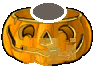
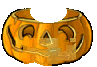
fix(shield): dig top oval hole fully transparent so the dark gray oval blob is gone (v3.3.8 -> v3.3.9-shield-tophole)

Changed region(s): [[0.2165, 0.0299, 0.6804, 0.2985], [0.7113, 0.1194, 0.8041, 0.1493], [0.6804, 0.0896, 0.7113, 0.1194]]

diff --git a/pvz-web/js/GameLoop.js b/pvz-web/js/GameLoop.js
@@ -227,32 +227,32 @@ class Game {
     initUI() {
         // Just define the seeds, don't populate the top bar yet
         this.seeds = [
-            { type: 'sunflower', cost: 50, cooldown: 7.5, img: 'assets/images/Card/Plants/SunFlower.png?v=1788688039' },
-            { type: 'twinsunflower', cost: 150, cooldown: 50, img: 'assets/images/Card/Plants/TwinSunflower.png?v=1788688039' },
-            { type: 'sunshroom', cost: 25, cooldown: 7.5, img: 'assets/images/Card/Plants/SunShroom.png?v=1788688039' },
-            { type: 'peashooter', cost: 100, cooldown: 7.5, img: 'assets/images/Card/Plants/Peashooter.png?v=1788688039' },
-            { type: 'repeater', cost: 200, cooldown: 7.5, img: 'assets/images/Card/Plants/Repeater.png?v=1788688039' },
-            { type: 'threepeater', cost: 300, cooldown: 7.5, img: 'assets/images/Card/Plants/Threepeater.png?v=1788688039' },
-            { type: 'gatlingpea', cost: 250, cooldown: 50, img: 'assets/images/Card/Plants/GatlingPea.png?v=1788688039' },
-            { type: 'snowpea', cost: 175, cooldown: 7.5, img: 'assets/images/Card/Plants/SnowPea.png?v=1788688039' },
-            { type: 'splitpea', cost: 125, cooldown: 7.5, img: 'assets/images/Card/Plants/SplitPea.png?v=1788688039' },
-            { type: 'torchwood', cost: 175, cooldown: 7.5, img: 'assets/images/Card/Plants/Torchwood.png?v=1788688039' },
-            { type: 'wallnut', cost: 50, cooldown: 30, img: 'assets/images/Card/Plants/WallNut.png?v=1788688039' },
-            { type: 'cherrybomb', cost: 150, cooldown: 50, img: 'assets/images/Card/Plants/CherryBomb.png?v=1788688039' },            { type: 'squash', cost: 50, cooldown: 30, img: 'assets/images/Card/Plants/Squash.png?v=1788688039' },
-            { type: 'jalapeno', cost: 125, cooldown: 50, img: 'assets/images/Card/Plants/Jalapeno.png?v=1788688039' },
-            { type: 'potatomine', cost: 25, cooldown: 30, img: 'assets/images/Card/Plants/PotatoMine.png?v=1788688039' },
-            { type: 'chomper', cost: 150, cooldown: 7.5, img: 'assets/images/Card/Plants/Chomper.png?v=1788688039' },
-            { type: 'tallnut', cost: 125, cooldown: 30, img: 'assets/images/Card/Plants/TallNut.png?v=1788688039' },
-            { type: 'puffshroom', cost: 0, cooldown: 7.5, img: 'assets/images/Card/Plants/PuffShroom.png?v=1788688039' },
-            { type: 'fumeshroom', cost: 75, cooldown: 7.5, img: 'assets/images/Card/Plants/FumeShroom.png?v=1788688039' },
-            { type: 'scaredyshroom', cost: 25, cooldown: 7.5, img: 'assets/images/Card/Plants/ScaredyShroom.png?v=1788688039' },
-            { type: 'gloomshroom', cost: 150, cooldown: 7.5, img: 'assets/images/Card/Plants/GloomShroom.png?v=1788688039' },
-            { type: 'spikerock', cost: 125, cooldown: 7.5, img: 'assets/images/Card/Plants/Spikerock.png?v=1788688039' },
-            { type: 'cattail', cost: 225, cooldown: 7.5, img: 'assets/images/Card/Plants/Cattail.png?v=1788688039' },
-            { type: 'melonpult', cost: 300, cooldown: 7.5, img: 'assets/images/Card/Plants/MelonPult.png?v=1788688039' },{ type: 'iceshroom', cost: 75, cooldown: 50, img: 'assets/images/Card/Plants/IceShroom.png?v=1788688039' },
-            { type: 'doomshroom', cost: 125, cooldown: 50, img: 'assets/images/Card/Plants/DoomShroom.png?v=1788688039' },
-            { type: 'spikeweed', cost: 100, cooldown: 7.5, img: 'assets/images/Card/Plants/Spikeweed.png?v=1788688039' },
-            { type: 'garlic', cost: 50, cooldown: 7.5, img: 'assets/images/Card/Plants/Garlic.png?v=1788688039' }
+            { type: 'sunflower', cost: 50, cooldown: 7.5, img: 'assets/images/Card/Plants/SunFlower.png?v=1788689333' },
+            { type: 'twinsunflower', cost: 150, cooldown: 50, img: 'assets/images/Card/Plants/TwinSunflower.png?v=1788689333' },
+            { type: 'sunshroom', cost: 25, cooldown: 7.5, img: 'assets/images/Card/Plants/SunShroom.png?v=1788689333' },
+            { type: 'peashooter', cost: 100, cooldown: 7.5, img: 'assets/images/Card/Plants/Peashooter.png?v=1788689333' },
+            { type: 'repeater', cost: 200, cooldown: 7.5, img: 'assets/images/Card/Plants/Repeater.png?v=1788689333' },
+            { type: 'threepeater', cost: 300, cooldown: 7.5, img: 'assets/images/Card/Plants/Threepeater.png?v=1788689333' },
+            { type: 'gatlingpea', cost: 250, cooldown: 50, img: 'assets/images/Card/Plants/GatlingPea.png?v=1788689333' },
+            { type: 'snowpea', cost: 175, cooldown: 7.5, img: 'assets/images/Card/Plants/SnowPea.png?v=1788689333' },
+            { type: 'splitpea', cost: 125, cooldown: 7.5, img: 'assets/images/Card/Plants/SplitPea.png?v=1788689333' },
+            { type: 'torchwood', cost: 175, cooldown: 7.5, img: 'assets/images/Card/Plants/Torchwood.png?v=1788689333' },
+            { type: 'wallnut', cost: 50, cooldown: 30, img: 'assets/images/Card/Plants/WallNut.png?v=1788689333' },
+            { type: 'cherrybomb', cost: 150, cooldown: 50, img: 'assets/images/Card/Plants/CherryBomb.png?v=1788689333' },            { type: 'squash', cost: 50, cooldown: 30, img: 'assets/images/Card/Plants/Squash.png?v=1788689333' },
+            { type: 'jalapeno', cost: 125, cooldown: 50, img: 'assets/images/Card/Plants/Jalapeno.png?v=1788689333' },
+            { type: 'potatomine', cost: 25, cooldown: 30, img: 'assets/images/Card/Plants/PotatoMine.png?v=1788689333' },
+            { type: 'chomper', cost: 150, cooldown: 7.5, img: 'assets/images/Card/Plants/Chomper.png?v=1788689333' },
+            { type: 'tallnut', cost: 125, cooldown: 30, img: 'assets/images/Card/Plants/TallNut.png?v=1788689333' },
+            { type: 'puffshroom', cost: 0, cooldown: 7.5, img: 'assets/images/Card/Plants/PuffShroom.png?v=1788689333' },
+            { type: 'fumeshroom', cost: 75, cooldown: 7.5, img: 'assets/images/Card/Plants/FumeShroom.png?v=1788689333' },
+            { type: 'scaredyshroom', cost: 25, cooldown: 7.5, img: 'assets/images/Card/Plants/ScaredyShroom.png?v=1788689333' },
+            { type: 'gloomshroom', cost: 150, cooldown: 7.5, img: 'assets/images/Card/Plants/GloomShroom.png?v=1788689333' },
+            { type: 'spikerock', cost: 125, cooldown: 7.5, img: 'assets/images/Card/Plants/Spikerock.png?v=1788689333' },
+            { type: 'cattail', cost: 225, cooldown: 7.5, img: 'assets/images/Card/Plants/Cattail.png?v=1788689333' },
+            { type: 'melonpult', cost: 300, cooldown: 7.5, img: 'assets/images/Card/Plants/MelonPult.png?v=1788689333' },{ type: 'iceshroom', cost: 75, cooldown: 50, img: 'assets/images/Card/Plants/IceShroom.png?v=1788689333' },
+            { type: 'doomshroom', cost: 125, cooldown: 50, img: 'assets/images/Card/Plants/DoomShroom.png?v=1788689333' },
+            { type: 'spikeweed', cost: 100, cooldown: 7.5, img: 'assets/images/Card/Plants/Spikeweed.png?v=1788689333' },
+            { type: 'garlic', cost: 50, cooldown: 7.5, img: 'assets/images/Card/Plants/Garlic.png?v=1788689333' }
         ];
         // The top bar will be populated in startGame() after selection
     }
@@ -284,7 +284,7 @@ class Game {
             { a: 'puffshroom', b: 'sunflower', result: '阳光菇', img: 'assets/images/Plants/SunShroom/SunShroom.gif', css: false },
             { a: 'puffshroom', b: 'peashooter', result: '胆小菇', img: 'assets/images/Plants/ScaredyShroom/ScaredyShroom.gif', css: false },
             { a: 'wallnut', b: 'jalapeno', result: '火炬树桩', img: 'assets/images/Plants/Torchwood/Torchwood.gif', css: false },
-            { a: 'chomper', b: 'tallnut', result: '西瓜投手', img: 'assets/images/Plants/MelonPult/MelonPult.png?v=1788688039', css: false },
+            { a: 'chomper', b: 'tallnut', result: '西瓜投手', img: 'assets/images/Plants/MelonPult/MelonPult.png?v=1788689333', css: false },
             { a: 'peashooter', b: 'sunflower', result: '豌豆向日葵', base: 'assets/images/Plants/SunFlower/SunFlower1.gif', over: 'assets/images/Plants/Peashooter/Peashooter.gif', overClip: 'polygon(0 0, 100% 0, 100% 65%, 0 65%)', overTransform: 'translate(0px, -20px) scale(1.0)' },
             { a: 'peashooter', b: 'wallnut', result: '坚果射手', base: 'assets/images/Plants/WallNut/WallNut.gif', over: 'assets/images/Plants/Peashooter/Peashooter.gif', overClip: 'polygon(0 0, 100% 0, 100% 65%, 0 65%)', overTransform: 'translate(5px, -15px) scale(1.0)' },
             { a: 'snowpea', b: 'cherrybomb', result: '寒冰炸弹', img: 'assets/images/Plants/CherryBomb/CherryBomb.gif', filter: 'hue-rotate(180deg) saturate(1.5)', css: false },
@@ -293,7 +293,7 @@ class Game {
             { a: 'snowpea', b: 'wallnut', result: '寒冰坚果', img: 'assets/images/Plants/WallNut/WallNut.gif', filter: 'hue-rotate(180deg) saturate(1.5) brightness(1.2)', css: false },
             { a: 'peashooter', b: 'cherrybomb', result: '樱桃射手', img: 'assets/images/Plants/Peashooter/Peashooter.gif', filter: 'hue-rotate(-45deg) saturate(2.0)', css: false },
             { a: 'sunflower', b: 'doomshroom', result: '毁灭向日葵', img: 'assets/images/Plants/SunFlower/SunFlower1.gif', filter: 'grayscale(0.8) brightness(0.6) sepia(1) hue-rotate(240deg) saturate(3)', css: false },
-            { a: 'melonpult', b: 'iceshroom', result: '冰西瓜投手', img: 'assets/images/Plants/WinterMelon/WinterMelon.png?v=1788688039', css: false },
+            { a: 'melonpult', b: 'iceshroom', result: '冰西瓜投手', img: 'assets/images/Plants/WinterMelon/WinterMelon.png?v=1788689333', css: false },
             { a: 'repeater', b: 'spikeweed', result: '猫尾草', img: 'assets/images/Plants/Cattail/Cattail.gif', css: false },
             { a: 'fumeshroom', b: 'fumeshroom', result: '忧郁菇', img: 'assets/images/Plants/GloomShroom/GloomShroom.gif', css: false },
             { a: 'spikeweed', b: 'spikeweed', result: '钢地刺', img: 'assets/images/Plants/Spikerock/Spikerock.gif', css: false },
@@ -303,8 +303,8 @@ class Game {
             { a: 'splitpea', b: 'sunflower', result: '杨桃', img: 'assets/images/Plants/Starfruit/Starfruit.gif', css: false },
             { a: 'puffshroom', b: 'garlic', result: '魅惑菇', img: 'assets/images/Plants/HypnoShroom/HypnoShroom.gif', css: false },
             { a: 'wallnut', b: 'tallnut', result: '南瓜壳（可套在任意植物上）', img: 'assets/images/Plants/PumpkinHead/PumpkinHead.gif', css: false },
-            { a: 'melonpult', b: 'cattail', result: '西瓜猫尾草', base: 'assets/images/Plants/Cattail/Cattail.gif', over: 'assets/images/Plants/MelonPult/MelonPult.png?v=1788688039', overTransform: 'translate(-5px, -30px) scale(0.7)' },
-            { a: 'wintermelon', b: 'cattail', result: '冰西瓜猫尾草', base: 'assets/images/Plants/Cattail/Cattail.gif', over: 'assets/images/Plants/WinterMelon/WinterMelon.png?v=1788688039', overTransform: 'translate(-5px, -30px) scale(0.7)' }
+            { a: 'melonpult', b: 'cattail', result: '西瓜猫尾草', base: 'assets/images/Plants/Cattail/Cattail.gif', over: 'assets/images/Plants/MelonPult/MelonPult.png?v=1788689333', overTransform: 'translate(-5px, -30px) scale(0.7)' },
+            { a: 'wintermelon', b: 'cattail', result: '冰西瓜猫尾草', base: 'assets/images/Plants/Cattail/Cattail.gif', over: 'assets/images/Plants/WinterMelon/WinterMelon.png?v=1788689333', overTransform: 'translate(-5px, -30px) scale(0.7)' }
         ];
         
         const list = document.getElementById('recipe-list');
@@ -335,8 +335,8 @@ class Game {
                     'fumeshroom': 'assets/images/Plants/FumeShroom/FumeShroom.gif',
                     'spikeweed': 'assets/images/Plants/Spikeweed/Spikeweed.gif',
                     'tallnut': 'assets/images/Plants/TallNut/TallNut.gif',
-                    'melonpult': 'assets/images/Plants/MelonPult/MelonPult.png?v=1788688039',
-                    'wintermelon': 'assets/images/Plants/WinterMelon/WinterMelon.png?v=1788688039',
+                    'melonpult': 'assets/images/Plants/MelonPult/MelonPult.png?v=1788689333',
+                    'wintermelon': 'assets/images/Plants/WinterMelon/WinterMelon.png?v=1788689333',
                     'cattail': 'assets/images/Plants/Cattail/Cattail.gif',
                     'gloomshroom': 'assets/images/Plants/GloomShroom/GloomShroom.gif',
                     'spikerock': 'assets/images/Plants/Spikerock/Spikerock.gif',

diff --git a/pvz-web/index.html b/pvz-web/index.html
@@ -4,7 +4,7 @@
     <meta charset="UTF-8" data-page-node-id="fvct4kKB77qx0aDFZg0TFG">
     <meta name="viewport" content="width=device-width, initial-scale=1.0" data-page-node-id="7cXFTDee52Hp5l8aujUlmz">
     <title>Plants vs Zombies - Web Clone</title>
-    <link rel="stylesheet" href="css/style.css?v=1788688039" data-page-node-id="Q5lrPWp6xqtldfdpxSWXxH">
+    <link rel="stylesheet" href="css/style.css?v=1788689333" data-page-node-id="Q5lrPWp6xqtldfdpxSWXxH">
 </head>
 <body data-page-node-id="lPg8spSQ9t6E6ZEWT8akzU">
     <div id="game-container" data-page-node-id="dle8H483OJAxh7uRwqXTVW">
@@ -258,16 +258,16 @@
                 });
         })();
     </script>
-    <script src="js/InputManager.js?v=1788688039"></script>
-    <script src="js/Board.js?v=1788688039"></script>
-    <script src="js/entities/Entity.js?v=1788688039"></script>
-    <script src="js/entities/Plant.js?v=1788688039"></script>
-    <script src="js/entities/Zombie.js?v=1788688039"></script>
-    <script src="js/entities/Projectile.js?v=1788688039"></script>
-    <script src="js/entities/Sun.js?v=1788688039"></script>
-    <script src="js/managers/WaveManager.js?v=1788688039"></script>
-    <script src="js/managers/CollisionManager.js?v=1788688039"></script>
-    <script src="js/managers/EventManager.js?v=1788688039"></script>
-    <script src="js/GameLoop.js?v=1788688039"></script>
+    <script src="js/InputManager.js?v=1788689333"></script>
+    <script src="js/Board.js?v=1788689333"></script>
+    <script src="js/entities/Entity.js?v=1788689333"></script>
+    <script src="js/entities/Plant.js?v=1788689333"></script>
+    <script src="js/entities/Zombie.js?v=1788689333"></script>
+    <script src="js/entities/Projectile.js?v=1788689333"></script>
+    <script src="js/entities/Sun.js?v=1788689333"></script>
+    <script src="js/managers/WaveManager.js?v=1788689333"></script>
+    <script src="js/managers/CollisionManager.js?v=1788689333"></script>
+    <script src="js/managers/EventManager.js?v=1788689333"></script>
+    <script src="js/GameLoop.js?v=1788689333"></script>
 </body>
 </html>

diff --git a/pvz-web/js/entities/Projectile.js b/pvz-web/js/entities/Projectile.js
@@ -19,12 +19,12 @@ class Projectile extends Entity {
             this.element.src = 'assets/images/Plants/ShroomBullet.gif';
             this.damage = 40;
         } else if (type === 'melon') {
-            this.element.src = 'assets/images/Plants/MelonPult/Melon.png?v=1788688039';
+            this.element.src = 'assets/images/Plants/MelonPult/Melon.png?v=1788689333';
             this.element.style.transform = 'scale(1.0)';
             this.element.style.borderRadius = '50%';
             this.damage = 60;
         } else if (type === 'wintermelon') {
-            this.element.src = 'assets/images/Plants/MelonPult/WinterMelon.png?v=1788688039';
+            this.element.src = 'assets/images/Plants/MelonPult/WinterMelon.png?v=1788689333';
             this.element.style.transform = 'scale(1.0)';
             this.element.style.borderRadius = '50%';
             this.damage = 60;
@@ -34,13 +34,13 @@ class Projectile extends Entity {
             this.damage = 20;
             this.speed = 400;
         } else if (type === 'cattail_melon') {
-            this.element.src = 'assets/images/Plants/MelonPult/Melon_small.png?v=1788688039';
+            this.element.src = 'assets/images/Plants/MelonPult/Melon_small.png?v=1788689333';
             this.element.style.transform = 'scale(0.8)';
             this.element.style.borderRadius = '50%';
             this.damage = 60;
             this.speed = 400;
         } else if (type === 'cattail_wintermelon') {
-            this.element.src = 'assets/images/Plants/MelonPult/WinterMelon_small.png?v=1788688039';
+            this.element.src = 'assets/images/Plants/MelonPult/WinterMelon_small.png?v=1788689333';
             this.element.style.transform = 'scale(0.8)';
             this.element.style.borderRadius = '50%';
             this.damage = 60;

diff --git a/_verify_shield_tophole.js b/_verify_shield_tophole.js
@@ -1,0 +1,45 @@
+const { execSync } = require('child_process');
+const path = require('path');
+const fs = require('fs');
+const repo = path.resolve(__dirname);
+const py = '/Users/clawbox/.workbuddy/binaries/python/envs/default/bin/python';
+const tmpPy = path.join(repo, '_verify_shield_tophole_tmp.py');
+const pySrc = [
+    'from PIL import Image',
+    'import sys',
+    'files = sys.argv[1:]',
+    'allok = True',
+    'for f in files:',
+    '    img = Image.open(f).convert("RGBA")',
+    '    W,H = img.size',
+    '    px = img.load()',
+    '    # 顶部椭圆洞区(壳顶部 y2-y21, 中央 x30-x64): 检测灰色不透明像素数',
+    '    # 修复后应几乎为 0(<5)',
+    '    gray_dark = 0',
+    '    for y in range(2, 22):',
+    '        for x in range(28, 67):',
+    '            a = px[x,y][3]',
+    '            if a < 30: continue',
+    '            r,g,b,_ = px[x,y]',
+    '            gray = abs(r-g)<20 and abs(g-b)<20 and abs(r-b)<25 and max(r,g,b) < 110',
+    '            if gray: gray_dark += 1',
+    '    ok = gray_dark < 5',
+    '    allok = allok and ok',
+    '    print(("PASS" if ok else "FAIL") + " " + f + ": gray_dark_top=" + str(gray_dark))',
+    'sys.exit(0 if allok else 1)'
+].join('\n');
+fs.writeFileSync(tmpPy, pySrc);
+try {
+    const files = ['shield_full.png','shield_mid.png','shield_bad.png']
+        .map(n => path.join(repo, 'pvz-web/assets/images/Plants/PumpkinHead/'+n))
+        .map(p => `"${p}"`).join(' ');
+    const out = execSync(`"${py}" "${tmpPy}" ${files}`, { encoding: 'utf8' });
+    console.log(out.trim());
+    console.log('ALL PASS');
+} catch (e) {
+    console.log((e.stdout ? e.stdout.trim() : ''));
+    console.log('FAILED');
+    process.exitCode = 1;
+} finally {
+    fs.unlinkSync(tmpPy);
+}

diff --git a/pvz-web/js/entities/Plant.js b/pvz-web/js/entities/Plant.js
@@ -153,12 +153,12 @@ class Plant extends Entity {
             stat.hp = 300;
             stat.fireRate = 1.0;
             stat.fireTimer = 0;
-            stat.src = 'assets/images/Plants/MelonPult/MelonPult.png?v=1788688039';
+            stat.src = 'assets/images/Plants/MelonPult/MelonPult.png?v=1788689333';
         } else if (type === 'wintermelon') {
             stat.hp = 300;
             stat.fireRate = 1.0;
             stat.fireTimer = 0;
-            stat.src = 'assets/images/Plants/WinterMelon/WinterMelon.png?v=1788688039';
+            stat.src = 'assets/images/Plants/WinterMelon/WinterMelon.png?v=1788689333';
         }
         
 

diff --git a/pvz-web/js/InputManager.js b/pvz-web/js/InputManager.js
@@ -143,8 +143,8 @@ class InputManager {
             // Melon / Winter Melon 图是 PNG，其他植物是 GIF
             const isMelonSprite = imgName === 'MelonPult/MelonPult' || imgName === 'WinterMelon/WinterMelon';
             const url = isMelonSprite
-                ? `assets/images/Plants/${imgName}.png?v=1788688039`
-                : `assets/images/Plants/${imgName}.gif?v=1788688039`;
+                ? `assets/images/Plants/${imgName}.png?v=1788689333`
+                : `assets/images/Plants/${imgName}.gif?v=1788689333`;
             this.dragGhost.style.backgroundImage = `url('${url}')`;
         }
     }
